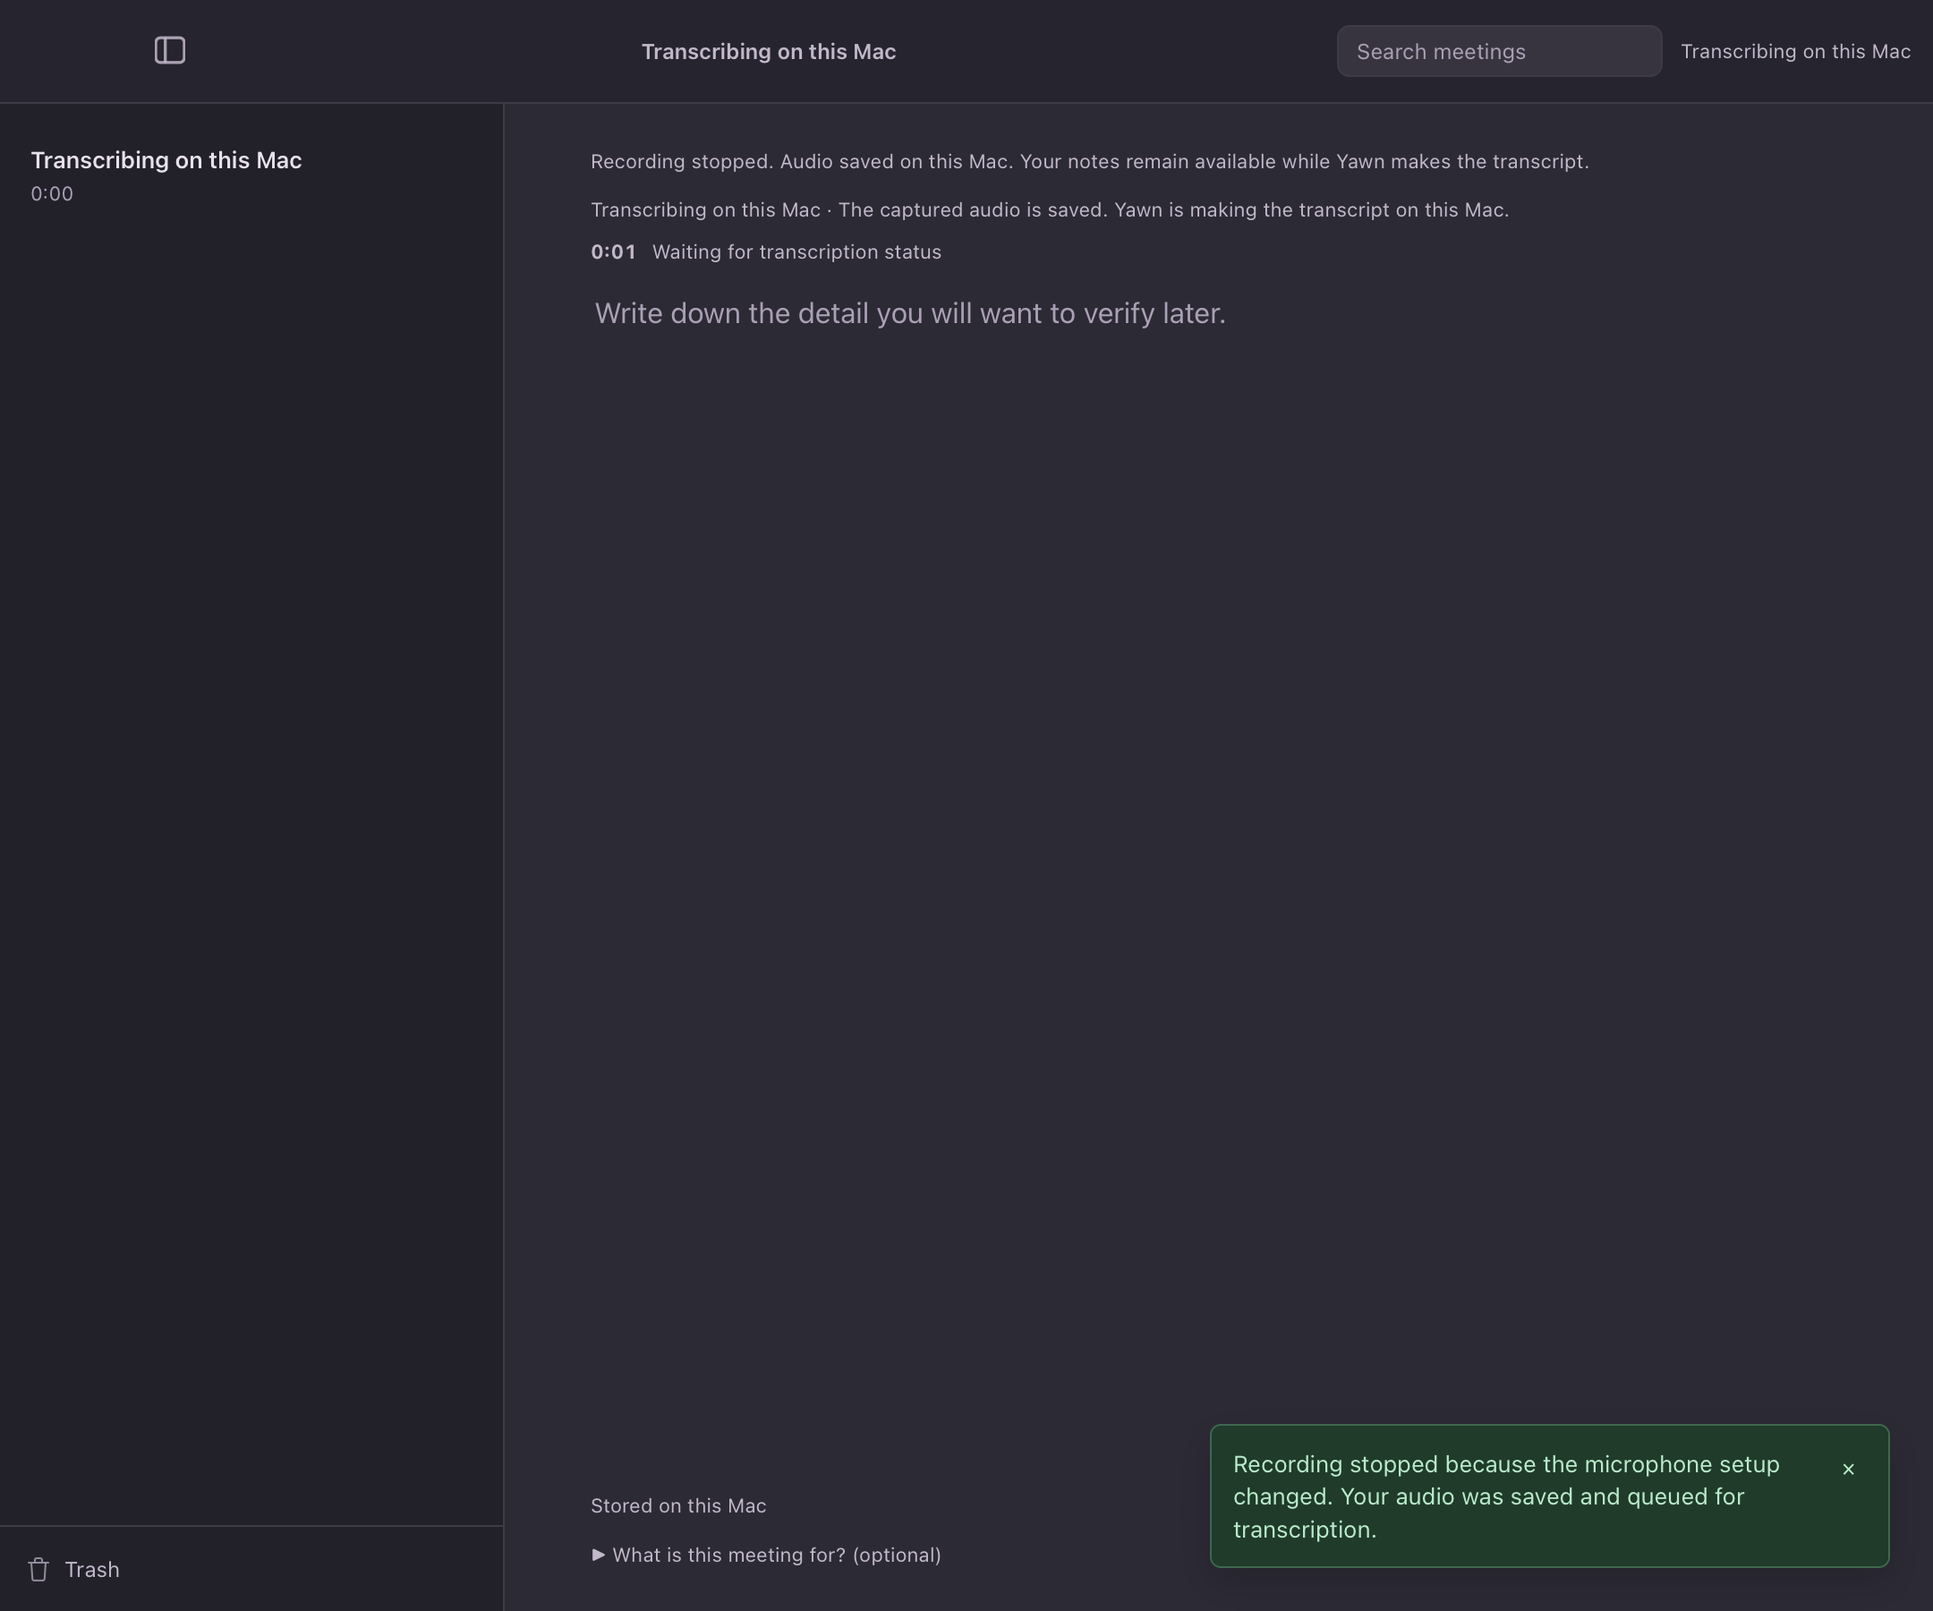
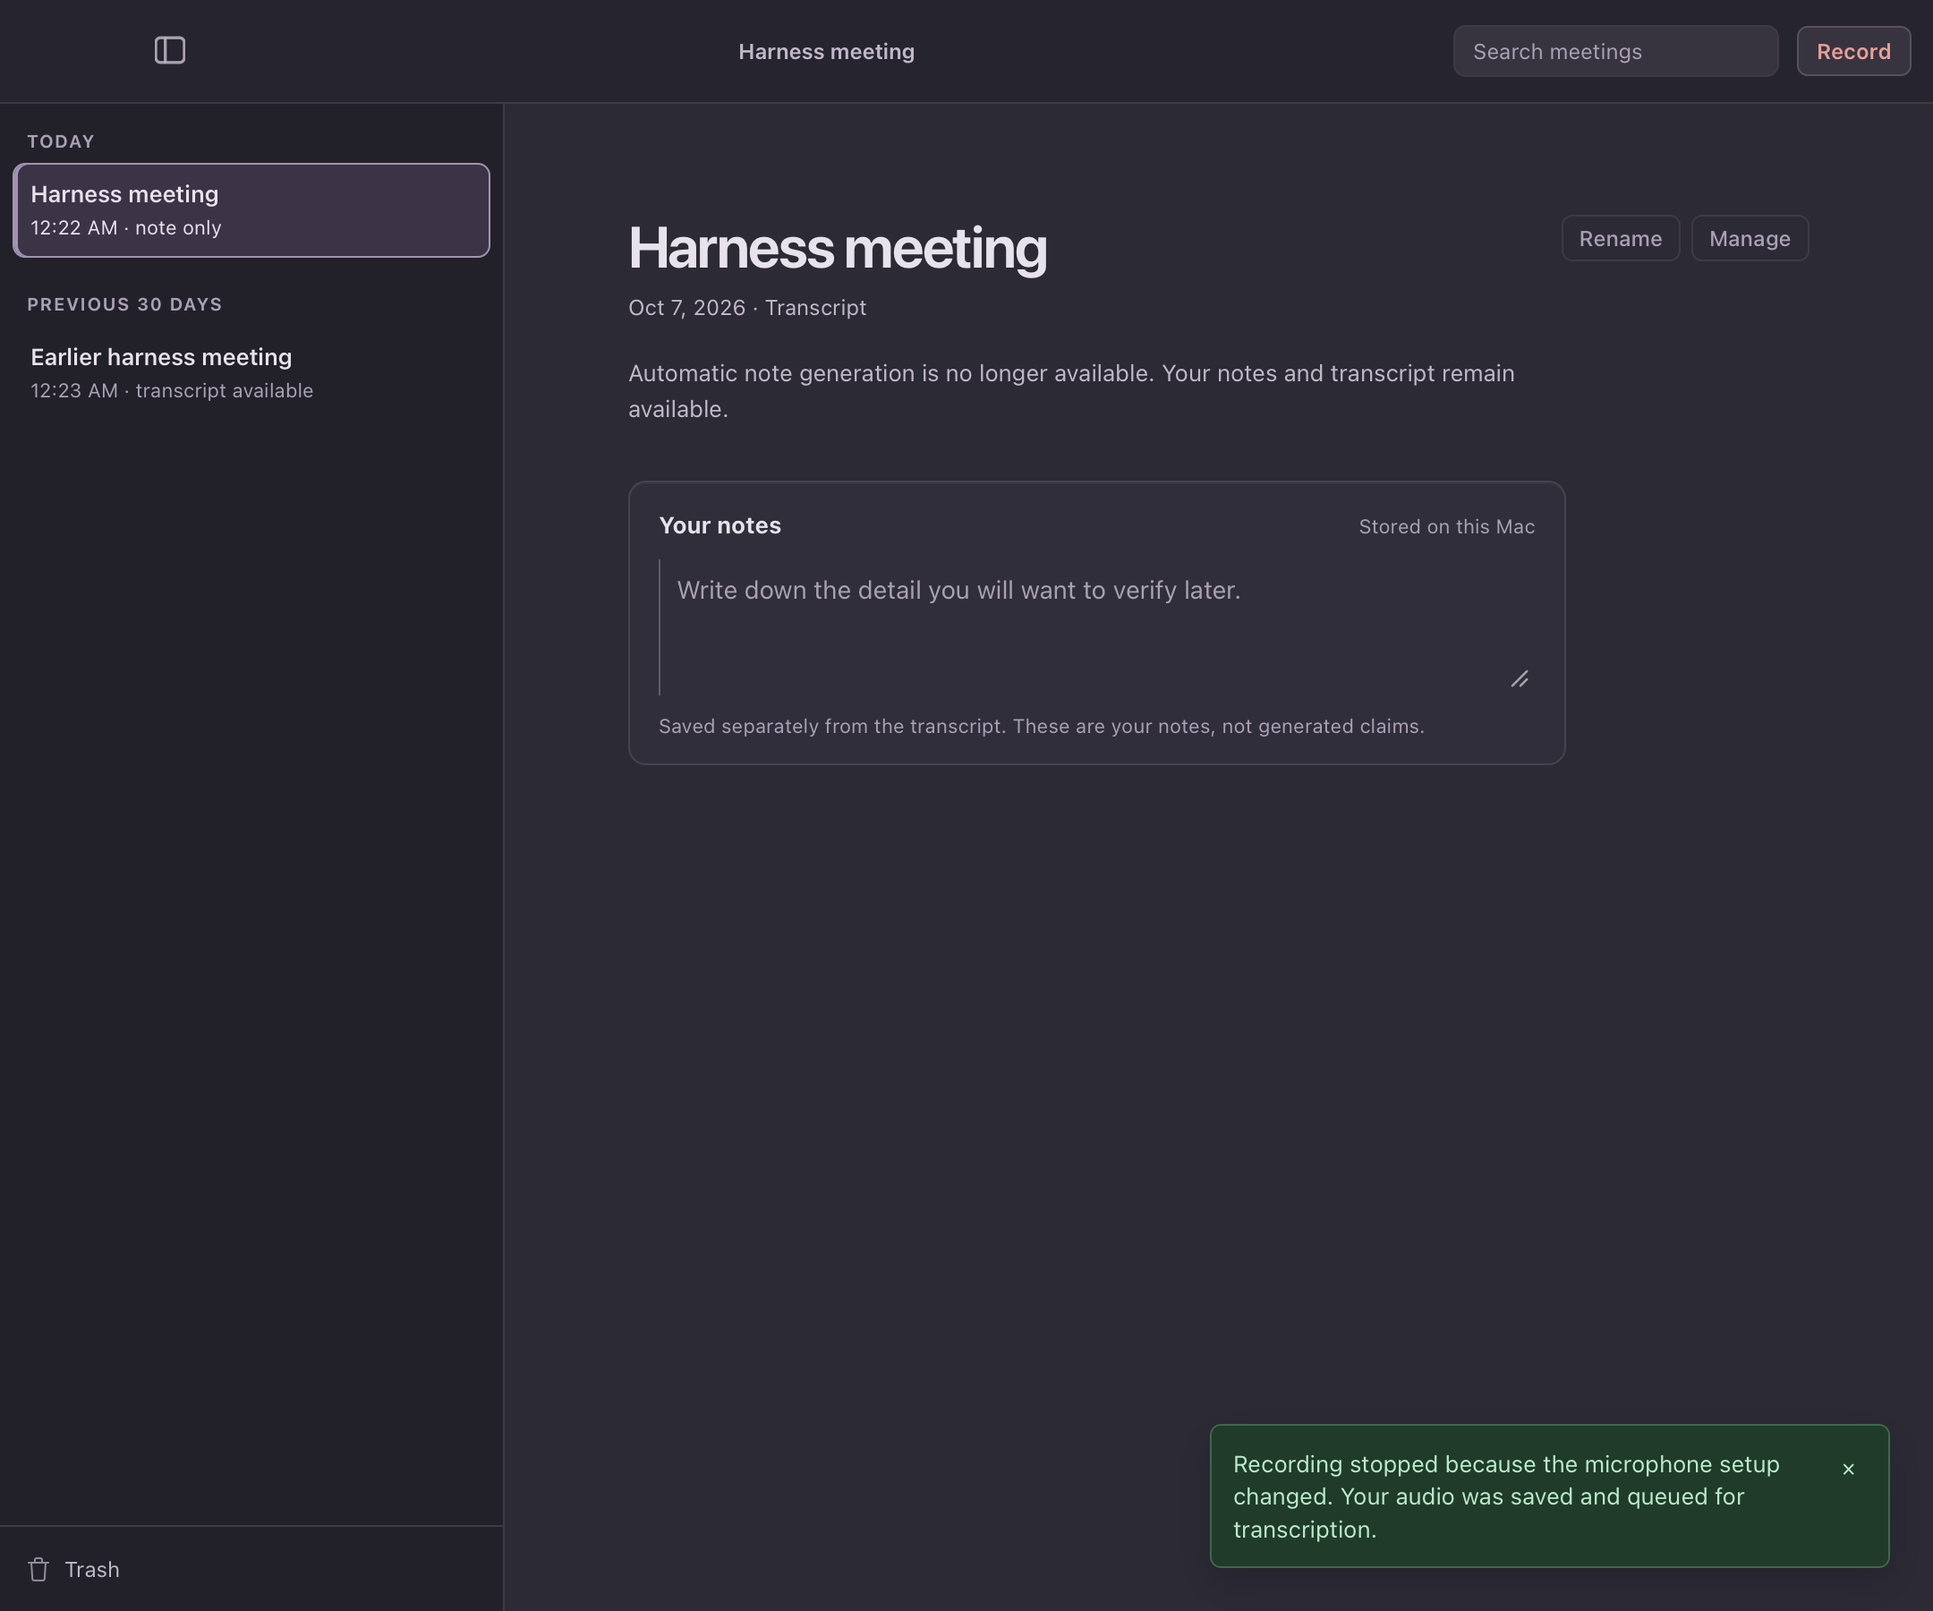
test(ui): stub the real post-stop state and record cold review pass 2
The automated review of f0a66fb found the mic-change-stop stub showed a
"transcribing" capture pane the backend never produces: after any
finalized take it steps Captured -> Idle and clears the meeting
projection. The stub now switches to that idle snapshot (with background
transcription active), lists the just-recorded take without a transcript,
and opens it through library_reader's default transcript-only branch.
mic-change-failed gets a populated library and its own meeting id (the
shared id made the UI open an existing meeting and hide the failure).
The scenario asserts the idle state and Record, not "Transcribing".

Pass 1 of the cold review judged the unreachable state and is marked
superseded. Pass 2, on the corrected frames: revise on both situations,
with three copy choices left to the operator. Before/after check: the
stop mode fails with main's ui/main.js and passes with this change, on
fresh harness ports.

diff --git a/apps/desktop/ui-harness/tauri-stub.js b/apps/desktop/ui-harness/tauri-stub.js
@@ -28,20 +28,22 @@
   let stopStatusSnapshot = { ...captureSnapshot };
   // mode=mic-change-stop: the microphone setup changes mid-recording (a call
   // ending), and the backend stops, saves and queues the take by itself — no
-  // Stop click. mode=mic-change-failed: the same change while arming, which
-  // still fails. Copy is the backend's own, verbatim.
+  // Stop click. Like any finalized take, it then steps Captured -> Idle and
+  // clears the meeting projection (main.rs, after enqueue), so the notice
+  // rides on an idle snapshot, not a "transcribing" one.
+  // mode=mic-change-failed: the same change while arming, which still fails.
+  // Both modes carry a library, as a real install would. Copy is the
+  // backend's own, verbatim.
   const MIC_CHANGE_SAVED = "Recording stopped because the microphone setup changed. Your audio was saved and queued for transcription.";
   const MIC_CHANGE_FAILED = "Recording stopped because the microphone setup changed. Check your audio input before starting another recording. Nothing was marked complete.";
   let micChangeSnapshot = { ...captureSnapshot };
   if (mode === "mic-change-stop") {
     setTimeout(() => {
       micChangeSnapshot = {
-        ...captureSnapshot,
-        capture: "transcribing",
-        mic_state: "stopped",
-        system_state: "stopped",
-        capture_state_started_at_epoch_seconds: Math.floor(Date.now() / 1000),
+        ...idleSnapshot,
         capture_notice: MIC_CHANGE_SAVED,
+        background_transcription_active: true,
+        background_transcription_queued_count: 1,
       };
     }, 1200);
   }
@@ -158,7 +160,7 @@
     app_snapshot: () => (mode === "capture" || mode === "search-capture" ? { ...captureSnapshot }
       : mode === "stop-status" ? { ...stopStatusSnapshot }
       : mode === "mic-change-stop" ? { ...micChangeSnapshot }
-      : mode === "mic-change-failed" ? { ...captureSnapshot, capture: "recovered-interrupted", mic_state: "failed", system_state: "stopped", error: MIC_CHANGE_FAILED }
+      : mode === "mic-change-failed" ? { ...captureSnapshot, meeting_id: "harness-meeting-new", capture: "recovered-interrupted", mic_state: "failed", system_state: "stopped", error: MIC_CHANGE_FAILED }
       : mode === "startup" ? { ...idleSnapshot, startup: "checking", startup_message: "Verifying on-device speech models." }
       : mode === "native-ready" ? { ...idleSnapshot, transcriptionEngine: { selected: "apple-native", canChange: true, operationActive: false, apple: { state: "ready", reason: null, locale: "en-US" }, whisper: { state: "ready", reason: null } } }
       : mode === "apple-assets-required" ? { ...idleSnapshot, startup: "model-required", transcriptionEngine: { selected: null, canChange: true, operationActive: false, apple: { state: "assets-required", reason: "Apple speech needs a one-time preparation.", locale: "en-US" }, whisper: { state: "download-required", reason: null } }, model_setup: { state: "idle", selectedModelId: "", options: [
@@ -199,7 +201,13 @@
         prompted: true,
       };
     },
-    library_snapshot: () => (mode === "library" || mode === "fidelity" || mode === "transcript-retirement" || mode === "summary-failed" || mode === "saved-draft" || mode === "saved-draft-unreadable" || sheetMode || searchMode
+    library_snapshot: () => (mode === "mic-change-stop" ? {
+        rows: [
+          { ...libraryRow, createdAtEpochSeconds: Math.floor(Date.now() / 1000) - 60, transcriptAvailable: false },
+          { ...libraryRow, handle: "row-handle-2", meetingId: "harness-meeting-2", label: "Earlier harness meeting",
+            createdAtEpochSeconds: Math.floor(Date.now() / 1000) - (9 * 24 * 60 * 60) },
+        ], total: 2, metadataRevision: 1, searchProbeEnabled: false }
+      : mode === "library" || mode === "fidelity" || mode === "mic-change-failed" || mode === "transcript-retirement" || mode === "summary-failed" || mode === "saved-draft" || mode === "saved-draft-unreadable" || sheetMode || searchMode
       ? { rows: [{ ...libraryRow }, {
           ...libraryRow,
           handle: "row-handle-2",
@@ -288,7 +296,20 @@
     },
     // mode=summary-failed: the same meeting after a rejected generation,
     // audio released, with a source pin so the retry control renders (R23).
-    library_open_note: () => (searchMode && openedSearchMeeting ? {
+    library_open_note: () => (mode === "mic-change-stop" ? {
+      // A Captured meeting still queued: library_reader's default branch,
+      // "transcript-only" with no transcript handle and its real message.
+      meetingId: "harness-meeting-1",
+      state: "transcript-only",
+      claims: [],
+      noteGenerationAvailable: false,
+      operatorNote: { text: "", unreadable: false },
+      operatorNoteHandle: "note-handle-1",
+      transcriptHandle: null,
+      message: "No transcript was created for this retained meeting.",
+      audioRetention: { state: "retained", message: "Audio retained on this Mac." },
+      capturePauses: null,
+    } : searchMode && openedSearchMeeting ? {
       meetingId: "harness-meeting-2",
       state: "transcript-only",
       claims: [],

diff --git a/apps/desktop/ui-harness/scenario.js b/apps/desktop/ui-harness/scenario.js
@@ -24,11 +24,14 @@ if (mode === "mic-change-stop") {
   result.noticeShown = !!toast && toast.getAttribute('role') === 'status'
     && toast.textContent.includes("microphone setup changed")
     && toast.textContent.includes("saved and queued for transcription");
-  result.transcribingShowsPhase = q('.record-control [role="status"]')?.textContent === "Transcribing on this Mac";
+  // The real post-stop snapshot is idle with the meeting cleared, so Record
+  // is offered again and no capture phase is shown.
+  result.backToIdle = !!q('.record-control [data-action="open-start"], .record-control [data-action="start-recording"], [data-action="open-start"]');
   result.noLiveControls = !q('.record-control .record.live') && !q('.record-control [data-action="stop-recording"]');
+  result.noCapturePhase = !["Transcribing on this Mac", "Stopping recording"].includes(q('.toolbar-title')?.textContent);
   result.errors = window.__errors || [];
-  result.pass = result.startedLive && result.noticeShown && result.transcribingShowsPhase
-    && result.noLiveControls && result.errors.length === 0;
+  result.pass = result.startedLive && result.noticeShown && result.backToIdle
+    && result.noLiveControls && result.noCapturePhase && result.errors.length === 0;
   return result;
 }
 

diff --git a/docs/evidence/screen-reviews/mic-change-stop-2026-10-07-cold.md b/docs/evidence/screen-reviews/mic-change-stop-2026-10-07-cold.md
@@ -1,21 +1,26 @@
 # Recording stopped by a microphone setup change — cold review, 2026-10-07
 
-**Kind:** cold screen review, one pass. A fresh reviewer saw only the four rendered frames and the questions below, with no source code, no design rationale and no description of the fix. The frames come from the synthetic WKWebView harness (`ui-harness/run.sh mic-change`, modes `mic-change-stop` and `mic-change-failed`), which drives the production frontend against a stubbed backend using the backend's copy verbatim. They are not captures of the installed app, and no real microphone change occurred.
+**Kind:** cold screen review, two passes. Each pass used a fresh reviewer who saw only four rendered frames and the questions below, with no source code, no design rationale and no description of the fix. The frames come from the synthetic WKWebView harness (`ui-harness/run.sh mic-change`, modes `mic-change-stop` and `mic-change-failed`), which drives the production frontend against a stubbed backend using the backend's copy verbatim. They are not captures of the installed app, and no real microphone change occurred.
 
-**Questions:** Situation A — the person was recording and did not press Stop; this is the screen moments later. Situation B — the person had just pressed Record; this is the screen moments later. For each: what happened, is the audio saved and how sure can they be, what happens next and what must they do, what is confusing, contradictory, alarming, easy to miss or redundant, and is every message readable in dark and light.
+**Questions:** Situation A — the person was recording "Harness meeting" and did not press Stop; this is the screen moments later. Situation B — the person had just pressed Record to start a new meeting; this is the screen moments later. For each: what happened, is the audio saved and how sure can they be, what happens next and what must they do, what is confusing, contradictory, alarming, easy to miss or redundant, and is every message readable in dark and light.
 
-| Situation | New copy under review | Verdict | Finding attributable to this change |
+| Pass | Frames | Verdict | Main finding |
 |---|---|---|---|
-| A, automatic stop, take saved | toast: "Recording stopped because the microphone setup changed. Your audio was saved and queued for transcription." | revise | The cause appears only in the dismissible toast; the persistent caption says "Recording stopped. Audio saved on this Mac." without why. Suggested: carry the cause into the persistent caption. |
-| B, change while arming, fails | context line: "Recording stopped because the microphone setup changed. Check your audio input before starting another recording. Nothing was marked complete." | revise | "Nothing was marked complete" does not say whether any audio exists. Suggested: state the outcome plainly. |
+| 1 (superseded) | A stubbed as "transcribing" with the capture pane still shown; B with an empty library | revise / revise | Judged a state the backend never produces: after any finalized take it steps Captured → Idle and clears the meeting projection. Caught by the automated commit review. Its findings are not carried forward. |
+| 2 | A as the real idle state: the just-recorded meeting opens with no transcript yet (the reader's default `transcript-only` branch), background transcription active; B with a populated library and a new meeting id | revise / revise | See below |
 
-**Status: operator decision.** Both findings are copy choices. A: whether the persistent capture caption should name the cause. B: "Nothing was marked complete." is the ending every capture failure message shares today (for example the stalled-audio messages), so changing it here alone would make one failure read differently from the rest.
+**Pass 2, situation A** — new copy: toast "Recording stopped because the microphone setup changed. Your audio was saved and queued for transcription."
+- The reviewer read the audio as saved and the next step as automatic.
+- Attributable to this change: the toast is the only place the cause appears, and it is dismissible.
+- Not introduced by this change, but made more visible by it: the meeting page for a still-queued take says "Automatic note generation is no longer available. Your notes and transcript remain available.", its caption reads "Transcript", and the sidebar row reads "note only" — while no transcript exists yet. A normal Stop lands on the same page. Suggested: while transcription is pending, show a status such as "Transcribing your saved audio. It will appear here when ready."
 
-Raised but not attributable to this change, with reasons:
-- A: the same "saved" fact stated three times, and "Transcribing on this Mac" repeated in header, sidebar and status line — the existing stopping/transcribing surface (cold-reviewed 2026-09-29), unchanged here. "Waiting for transcription status" — existing.
-- A: the sidebar duration reads 0:00 in one theme and 0:01 in the other — a harness artifact; the stub's recording lasts about a second and the two captures ran separately.
-- B: "Review what survived before you start another recording." shown twice, the dimmed Record button, and "Back to Meetings" — the existing interrupted-capture surface, unchanged here.
-- B: the sidebar shows the first-run "Press Record" text — a harness artifact; this mode's stub has an empty library.
+**Pass 2, situation B** — new copy: context line "Recording stopped because the microphone setup changed. Check your audio input before starting another recording. Nothing was marked complete."
+- Attributable to this change: "Recording stopped" describes a recording that never started (the change came while arming), and "Nothing was marked complete." does not say whether any audio exists. Suggested: "Recording did not start because the microphone setup changed. No audio was captured. Check your input, then press Record." The same message is also used when a paused recording cannot resume, where "stopped" fits, so the wording choice covers both.
+- Not introduced by this change: "Review what survived before you start another recording." shown twice, the disabled Record button, and the near-empty interrupted page.
+
+**Status: operator decision** on three copy choices: (1) whether the cause should persist beyond the toast; (2) the arming/resume failure wording, including whether to depart from the "Nothing was marked complete." ending every capture failure shares; (3) whether to fix the queued-meeting page now or separately — it affects every stop, not only this one.
+
+Harness artifacts, not findings: sidebar times are synthetic (an "earlier" meeting can show a later clock time); the meeting is named "Harness meeting".
 
 All messages were judged readable in both themes.
 
@@ -26,4 +31,4 @@ What was removed, combined, demoted or hidden: nothing. The change adds one noti
 ![Change while arming, dark](mic-change-stop-2026-10-07/mic-change-failed-dark.png)
 ![Change while arming, light](mic-change-stop-2026-10-07/mic-change-failed-light.png)
 
-Checks: `./run.sh mic-change` passed both modes in dark and light. The `mic-change-stop` mode failed with `main`'s `ui/main.js` (the notice never appeared) and passed with this change, each on a harness port not used before; reusing a port can serve a cached `main.js` from the runner's WebKit cache. This review does not establish behavior in an installed build or during a real call.
+Checks: `./run.sh mic-change` passed both modes in dark and light. The `mic-change-stop` mode failed with `main`'s `ui/main.js` (the notice never appeared) and passed with this change, each on a harness port not used before; reusing a port can serve a cached `main.js` from the runner's WebKit cache. The queued-meeting page is stubbed from the reader code (`library_reader.rs` default branch), not observed in an installed build. This review does not establish behavior during a real call.
